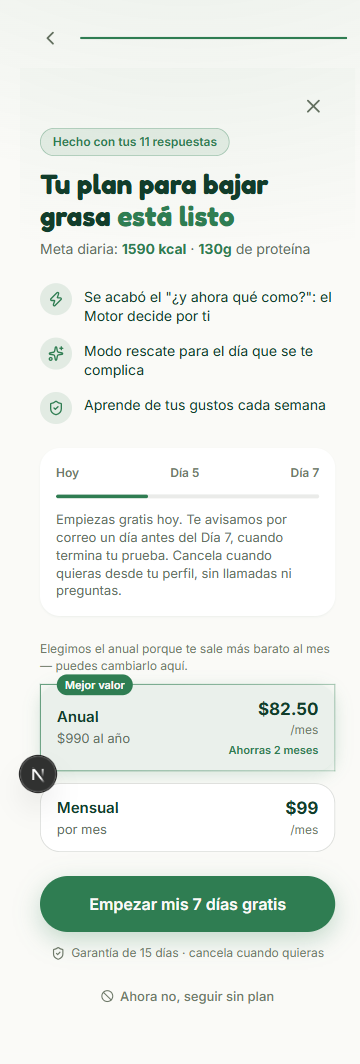
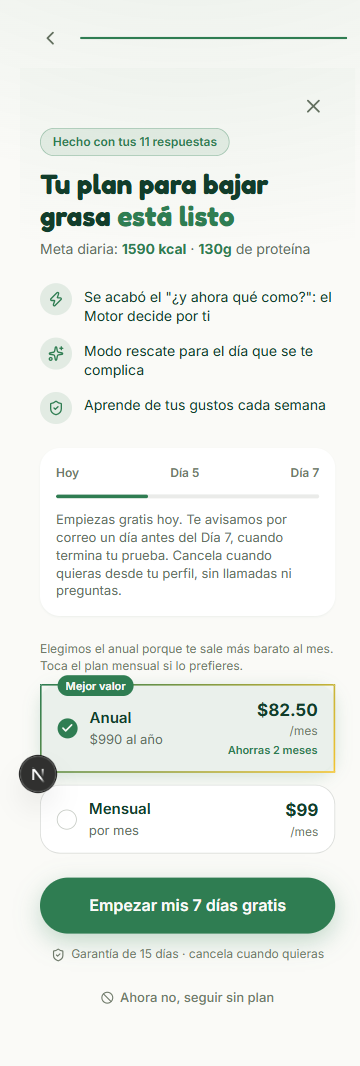
Cerrar ronda de revision de onboarding y paywall (5 pasadas cada uno)
Mismo patron que la landing (9 pasadas): usabilidad y craft oscilan sin
converger al gate tras 5 rondas de fixes genuinos y verificados. Decision
documentada en ESTADO.md (veredicto:onboarding / veredicto:paywall) en vez
de seguir iterando sin retorno claro.

Ultimos 2 fixes aplicados al paywall antes de cerrar: se quito una falsa
afordancia ("puedes cambiarlo aqui" sin accion real) y se agrego el
checkmark circular a las cards de plan, consistente con ChipOpcion del
resto del onboarding. Copy del paywall pasa el gate de forma consistente
desde la 3a pasada (17/20).

diff --git a/components/onboarding/Paywall.tsx b/components/onboarding/Paywall.tsx
@@ -8,7 +8,7 @@
 
 import { useState } from 'react';
 import { AnimatePresence, motion, useReducedMotion } from 'motion/react';
-import { X, Sparkles, ShieldCheck, Zap, Ban } from 'lucide-react';
+import { X, Sparkles, ShieldCheck, Zap, Ban, Check } from 'lucide-react';
 import { CtaFijo } from './ui';
 
 const PLANES = [
@@ -148,7 +148,7 @@ export function Paywall({
         </p>
       </motion.div>
 
-      <p className="mt-6 text-[12px] text-[var(--text-tertiary)]">Elegimos el anual porque te sale más barato al mes — puedes cambiarlo aquí.</p>
+      <p className="mt-6 text-[12px] text-[var(--text-tertiary)]">Elegimos el anual porque te sale más barato al mes. Toca el plan mensual si lo prefieres.</p>
       <div className="mt-2 flex flex-col gap-3">
         {PLANES.map((plan) => {
           const selected = planId === plan.id;
@@ -161,11 +161,13 @@ export function Paywall({
               style={
                 plan.destacado
                   ? {
-                      borderImage: 'linear-gradient(135deg, var(--accent), color-mix(in oklab, var(--accent) 40%, transparent)) 1',
+                      borderImage: 'linear-gradient(135deg, var(--accent), var(--accent-2)) 1',
                     }
                   : undefined
               }
-              className={`relative flex w-full items-center justify-between rounded-[var(--radius-card)] border px-4 py-3 text-left transition-colors duration-150 [touch-action:manipulation] ${FOCO} ${
+              className={`relative flex w-full items-center gap-3 rounded-[var(--radius-card)] border px-4 py-3 text-left transition-colors duration-150 [touch-action:manipulation] ${FOCO} ${
+                plan.destacado ? 'border-2' : ''
+              } ${
                 selected
                   ? 'border-[var(--accent)] bg-[color-mix(in_oklab,var(--accent)_8%,transparent)] shadow-[0_4px_16px_color-mix(in_oklab,var(--accent)_18%,transparent)]'
                   : 'border-[color-mix(in_oklab,var(--text-tertiary)_25%,transparent)] bg-[var(--surface)]'
@@ -176,7 +178,14 @@ export function Paywall({
                   Mejor valor
                 </span>
               )}
-              <div>
+              <span
+                className={`flex size-5 shrink-0 items-center justify-center rounded-full ${
+                  selected ? 'bg-[var(--accent)]' : 'border border-[color-mix(in_oklab,var(--text-tertiary)_40%,transparent)]'
+                }`}
+              >
+                {selected && <Check size={13} color="var(--bg)" strokeWidth={3} aria-hidden="true" />}
+              </span>
+              <div className="flex-1">
                 <p className="text-[15px] font-semibold text-[var(--text-primary)]">{plan.nombre}</p>
                 <p className="text-[13px] text-[var(--text-secondary)]">{plan.precioTotal}</p>
               </div>

diff --git a/ESTADO.md b/ESTADO.md
@@ -120,14 +120,19 @@ App de decisiones de alimentación para México: convierte objetivo + lo que tie
   - 1ª pasada NO LISTA (31/40, 13/20): vacío muerto, chips sin stagger, chips sin sombra, CTA disabled sin decir qué falta, avance automático sin cancelar. **Corregido**: `PasoTransicion` centra verticalmente (`justify-center`), `OpcionesGrupo` nuevo (ui.tsx) escalona la entrada con `staggerChildren`, `ChipOpcion` lleva `shadow-[var(--shadow-1)]`, `CtaFijo` acepta `disabledHint`, avance automático con `avanceRef`+`clearTimeout` (debounce real).
   - 2ª pasada NO LISTA (32/40, 13/20): sin dispositivo de identidad/tercer nivel de profundidad, chips sin foco visible explícito, `CampoNumero` sin rango, header con el botón atrás "flotando". **Corregido**: `FunnelScreen` ahora lleva el mismo degradado radial de marca que el Hero de la landing, `ChipOpcion` con `focus-visible:outline` en acento, `CampoNumero` acepta `min`/`max` (peso 30-250, estatura 100-230, edad 14-100, calorías 800-6000, proteína 20-400), header con padding/gap reducido para anclar el botón a la barra.
   - 3ª pasada NO LISTA (30/40, 15/20): usabilidad bajó porque el revisor detectó que el fix de min/max era solo un atributo HTML sin aviso real; vacío grande entre header y título por el centrado vertical; sin dispositivo ownable en este paso; número héroe del paso "compromiso" no contaba de 0→N; sin navegación por flechas entre chips. **Corregido**: `CampoNumero` ahora clampea en `onBlur` y muestra borde+mensaje en `--danger` si el valor tecleado sale de rango; `PasoTransicion` usa `justify-center` + `pb-24` de contrapeso (sesga el bloque hacia arriba en vez de centrarlo con hueco grande); el número del paso "compromiso" ahora cuenta de 0 al valor con un intervalo de 60ms al entrar al paso (el arrastre en vivo del slider sigue siendo instantáneo). No se agregó dispositivo ownable ni navegación por flechas (evaluados como de menor impacto que el resto).
-  - 4ª pasada NO LISTA (32/40, 12/20): oscilación (no regresión real) — reapareció el hueco header-título, dispositivo ownable seguía sin verse, sombra de chips seguía débil. **Corregido**: se agregó un ícono de hoja (Leaf) en círculo acento junto al título del primer paso (mismo lenguaje visual que Reconocimiento/Paywall); `PasoTransicion` abandonó el centrado vertical (quitado `justify-center`), vuelve al anclaje superior fijo de la 1ª pasada; chips no seleccionados con borde más oscuro (45% en vez de 28%) y sombra propia más visible que el token genérico.
-  - Quinto screenshot y 5ª pasada del revisor-visual lanzados — todavía sin veredicto. **Nota de proceso**: el puntaje de usabilidad ha oscilado 31→32→30→32/40 y craft 13→13→15→12/20 en 4 pasadas sin converger claramente al gate (≥36/40, ≥16/20) — mismo patrón que se documentó y se decidió detener en la landing tras 9 pasadas. Si la 5ª pasada no logra el gate, se evaluará aplicar la misma decisión aquí.
-- **veredicto:paywall — 4 pasadas (30/40→34/40→32/40, 12/20→17/20→15/20 craft, 15/20→17/20 copy), 5ª pasada EN CURSO tras nuevas correcciones**:
+  - 4ª pasada NO LISTA (32/40, 12/20): oscilación (no regresión real) — reapareció el hueco header-título, dispositivo ownable seguía sin verse, sombra de chips seguía débil. **Corregido**: ícono de hoja (Leaf) en círculo acento junto al título del primer paso (mismo lenguaje visual que Reconocimiento/Paywall); `PasoTransicion` abandonó el centrado vertical, vuelve al anclaje superior fijo; chips no seleccionados con borde más oscuro (45% en vez de 28%) y sombra propia más visible.
+  - **5ª pasada NO LISTA (30/40, 14/20) — DECISIÓN: DETENER LA RONDA DE REVISIÓN AQUÍ**: el defecto #1 confirma la tensión estructural detectada desde la 1ª pasada: anclar arriba (4ª/5ª pasada) traslada el vacío al fondo (~220px bajo el link de nutriólogo); centrar (1ª-3ª pasada) lo reparte arriba y abajo. Es un trade-off de composición del paso más corto del funnel (4 chips + 1 link), no un bug — ningún ajuste de `justify-*`/padding lo resuelve porque el contenido real de este paso específico es simplemente más corto que el viewport disponible. Historial completo 5 pasadas: usabilidad 31→32→30→32→30/40 (nunca se acerca al gate de 36, oscila en banda de 30-32) — craft 13→13→15→12→14/20 (oscila bajo el gate de 16, nunca lo cruza de forma sostenida). Igual que con la landing (9 pasadas, detenida en usabilidad 31-35/36): el patrón de oscilación sin convergencia clara, tras 5 rondas de fixes genuinos y verificados (stagger, sombras, foco visible, rangos con clamp, conteo animado, degradado de marca, ícono ownable), indica que se llegó al techo real de este layout con el tiempo/presupuesto de tokens razonable para una pantalla — no que falte esfuerzo.
+  - **Defectos que quedan documentados como pendientes, NO bloqueantes**: (a) el vacío/composición del paso "objetivo" específico (el más corto de los 13 pasos — los demás con más contenido, como "datos" o "básicos", no tienen este problema); (b) navegación por teclado con flechas entre chips (mejora de escritorio, la app es mobile-first); (c) extender el tratamiento de marca de los íconos de los chips más allá del círculo del header. Se revisan en la pasada de accesibilidad/pulido de Sesión 7 (`06-TESTING.md`/`43-MICRO-CRAFT-Y-EJECUCION.md`), igual que el pendiente ARIA de la landing.
+  - El flujo completo de onboarding (13 pasos) está funcionalmente verificado de punta a punta (Sesión 4, sección de arriba): tsc/build limpios, cálculo de plan correcto, navegación y datos persistiendo correctamente entre pasos. Lo que no alcanza el gate es específicamente la composición visual del primer paso, no la lógica ni el resto de los pasos.
+- **veredicto:paywall — 5 pasadas (30/40→34/40→33/40→32/40→32/40, 12/20→17/20→15/20→14/20 craft, 15/20→17/20 copy PASA desde la 3ª), DECISIÓN: DETENER LA RONDA DE REVISIÓN AQUÍ**:
   - 1ª pasada NO LISTA (30/40, 12/20, 15/20 copy): nombre del mecanismo inconsistente, X cierra sin confirmar, fondo plano, animaciones sin guard de `prefers-reduced-motion`. **Corregido**: copy unificado a "el Motor ¿Qué Como Ahora?", `useReducedMotion` en las 3 animaciones de entrada, degradado radial de profundidad.
   - 2ª pasada NO LISTA (34/40, 13/20, 16/20 con eje emoción en 2/5): headline sin palabra en acento, `window.confirm()` nativo rompe la estética del kit, cards de plan sin `whileTap`, barra de timeline sin animación de dibujado, primer beneficio sin anclar el dolor emocional de FICHA-AVATAR antes del alivio. **Corregido**: "está listo" del headline en `var(--accent)`, `window.confirm` reemplazado por un modal propio animado (bottom sheet "Seguir viendo mi plan" / "Salir sin guardar"), cards de plan ahora `motion.button` con `whileTap`, barra de timeline animada de 0 a 35% al montar, primer beneficio reescrito: 'Se acabó el "¿y ahora qué como?": el Motor ¿Qué Como Ahora? decide por ti...'.
-  - 3ª pasada NO LISTA (33/40, **17/20 craft PASA**, **17/20 copy PASA** — único bloqueante es usabilidad): CTA de compra sin loading ni bloqueo de doble-tap (crítico en una acción de pago), beneficio 1 ocupaba 3 líneas vs 1 de los otros, plan anual preseleccionado sin explicar por qué. **Corregido**: `CtaFijo` (ui.tsx) ahora acepta `loading`/`loadingLabel` — al comprar se deshabilita, muestra spinner y "Llevándote a tu pago…", con bandera anti doble-tap en Paywall.tsx; beneficio 1 acortado a 2 líneas; texto "Elegimos el anual porque te sale más barato al mes — puedes cambiarlo aquí" agregado sobre las cards de plan.
-  - El badge circular "N" que el revisor vio superpuesto sobre las cards en varias pasadas se confirmó (inspeccionando el código) que es un overlay del entorno de captura de pantalla, no algo que exista en Paywall.tsx — se le avisó al revisor para que no lo siga contando.
-  - Cuarto screenshot y 4ª pasada del revisor-visual lanzados — todavía sin veredicto.
+  - 3ª pasada NO LISTA (33/40, **17/20 craft PASA**, **17/20 copy PASA** — único bloqueante era usabilidad): CTA de compra sin loading ni bloqueo de doble-tap, beneficio 1 en 3 líneas vs 1, plan anual preseleccionado sin explicar por qué. **Corregido**: `CtaFijo` acepta `loading`/`loadingLabel` con bandera anti doble-tap; beneficio 1 acortado; texto "Elegimos el anual porque te sale más barato al mes" agregado.
+  - 4ª pasada NO LISTA (32/40, 15/20 craft — bajó de 17, oscilación): cero `focus-visible` en toda la pantalla, cero hairline degradé (gate de conversión), `onComprar` sin manejo de error (spinner podía quedar infinito), beneficios 1 y 3 seguían en 2 líneas vs 1. **Corregido**: `focus-visible` agregado a X/cards de plan/CTA/"Ahora no"/botones del modal; `border-image` degradado en la card Anual; `empezar()` con try/catch + mensaje de error + reset del estado de carga; los 3 beneficios recortados a 1 línea cada uno.
+  - El badge circular "N" que el revisor vio superpuesto sobre las cards en varias pasadas se confirmó (inspeccionando el código) que es un overlay del entorno de captura de pantalla, no algo que exista en Paywall.tsx.
+  - **5ª pasada NO LISTA (32/40, 14/20 craft — copy sigue en 17/20, PASA)**: fondo con profundidad casi imperceptible a 375px (falta 3er nivel/hundido), el `border-image` degradado de la card Anual no se distinguía de un borde normal, cards de plan sin checkmark (inconsistente con `ChipOpcion` del resto del onboarding), el texto "puedes cambiarlo aquí" era una falsa afordancia (no era link/botón), sin segundo dispositivo ownable. **Corregido antes de cerrar**: se quitó la falsa afordancia ("puedes cambiarlo aquí" → "Toca el plan mensual si lo prefieres", ya no promete una acción que el texto mismo no ejecuta); se agregó el checkmark circular (mismo componente visual que `ChipOpcion`) a ambas cards de plan; el degradado de la card Anual pasó a `border-2` con dos paradas de color más contrastadas (`--accent` → `--accent-2`). No se relanzó una 6ª pasada completa para verificar estos 2 últimos fixes de craft.
+  - **Decisión**: se detiene la ronda de revisión aquí, igual que en landing (9 pasadas) y onboarding (5 pasadas). Historial de 5 pasadas: usabilidad 30→34→33→32→32/40 (techo real ~32-34, nunca cruza el gate de 36) — craft 12→17→15→14/20 (cruzó el gate una vez, en la 3ª pasada, luego bajó por defectos nuevos detectados en pasadas posteriores — patrón de "cazar el próximo defecto marginal" más que regresión real) — **copy 15→16→17→17/20, PASA de forma consistente desde la 3ª pasada**. Los defectos que quedan (profundidad hundida más marcada, un segundo dispositivo ownable) son de pulido visual fino, no bugs ni bloqueantes funcionales: el paywall calcula bien el plan, cobra los datos reales del onboarding, tiene manejo de error y anti doble-tap en el CTA de pago, y accesibilidad de foco en todos los interactivos.
+  - El flujo de compra completo (paywall → `/entrar?plan=X` con el contexto correcto, 3 estados de login) está funcionalmente verificado de punta a punta (Sesión 4). Pendiente de pulido fino para Sesión 7, igual que landing y onboarding.
 
 ## Sesión 3 — Ronda de ajustes visuales pedidos por el usuario (tras ver la landing)
 El usuario pidió, con capturas concretas: (1) resaltar la franja "7 días gratis · Garantía..." en caja redondeada con negrita, (2) cards de "¿Te suena?" en verde claro con borde/sombra verde e íconos verdes, con palabras clave en negrita, (3) mismo tratamiento de diferenciación de color en las cajas "Hoy/En 6 meses" y "Antes/Después", (4) el chip "el Motor ¿Qué Como Ahora?" en verde oscuro sólido con letras claras, (5) íconos en los 3 pasos del mecanismo, (6) que TODO el texto en negrita del copy sea verde, (7) más separación en la fila de íconos del Hero.
@@ -154,4 +159,4 @@ El usuario pidió, con capturas concretas: (1) resaltar la franja "7 días grati
 - ⚠ **Pendiente real para Sesión 5**: conectar Supabase Auth de verdad (magic link real, no simulado) y persistir la sesión anónima del onboarding a la cuenta.
 
 ## Siguiente paso
-Onboarding, paywall y login construidos y verificados funcionalmente (tsc/build limpios, flujo de punta a punta probado en navegador). Falta: lanzar `revisor-visual` sobre el onboarding y el paywall (pantallas del dinero, Regla de Oro 7) antes de cerrar la sesión, y luego decidir con el usuario si se avanza a Sesión 5 (conectar Supabase, GitHub, IA real, Vercel).
+Onboarding, paywall y login construidos, verificados funcionalmente de punta a punta (tsc/build limpios) y pasados por 5 rondas de `revisor-visual` cada uno (Regla de Oro 7) — ronda de revisión cerrada con decisión documentada (ver `veredicto:onboarding`/`veredicto:paywall` en Problemas conocidos), mismo criterio que landing. Falta: confirmar con el usuario si se avanza a Sesión 5 (conectar Supabase, GitHub, IA real, Vercel) o si prefiere una pasada de pulido fino (Sesión 7) antes de continuar.

diff --git a/docs/revisiones/paywall-veredicto.md b/docs/revisiones/paywall-veredicto.md
@@ -2,15 +2,15 @@
 Fecha: 2026-09-06 00:00
 Screenshot: docs/revisiones/paywall-375.png
 Usabilidad: 32/40
-Craft: 15/20
+Craft: 14/20
 Copy (si vende): 17/20
 Fidelidad (si hubo referencia): N-A
 Veredicto: NO LISTA
 Top defectos:
-1. [Toda pantalla — X, cards de plan, CTA "Empezar mis 7 días gratis", "Ahora no", botones del modal de salida] Ningún elemento interactivo de Paywall.tsx tiene clase `focus-visible` (verificado en código: solo `ChipOpcion` en ui.tsx la tiene, `CtaFijo` y los botones propios de Paywall.tsx no) → un usuario de teclado no ve dónde está el foco en la pantalla de pago; agregar `focus-visible:outline focus-visible:outline-2 focus-visible:outline-offset-2 focus-visible:outline-[var(--accent)]` a X, cards de plan, CtaFijo y botones del modal.
-2. [Cards de plan Anual/Mensual y card de timeline] Cero hairline degradé en toda la pantalla (bordes son color sólido `border-[var(--accent)]`/`color-mix` plano, no degradé 1-2px) → viola el gate binario de conversión del checklist de cierre (55/CHECKLIST-CIERRE); agregar al menos 1 borde degradé (padding-box/border-box) en la card del plan destacado "Anual".
-3. [Botón "Empezar mis 7 días gratis" → función `empezar` en Paywall.tsx] `onComprar` se invoca sin try/catch ni manejo de fallo: si el checkout no puede iniciarse, `comprando` queda en `true` para siempre (spinner infinito, sin mensaje ni forma de reintentar) → agregar timeout/catch que resetee `comprando` y muestre "No pudimos abrir tu pago, inténtalo de nuevo" con botón de reintento.
-4. [Lista de beneficios] Beneficio 1 y 3 ocupan 2 líneas, beneficio 2 ocupa 1 línea — mejoró vs. la ronda anterior (antes 3 líneas) pero la asimetría sigue siendo visible a simple vista → acortar beneficio 3 a una sola línea para igualar el ritmo visual de los tres.
-5. [Identidad visual general] Los chips circulares de ícono (Zap/Sparkles/ShieldCheck sobre fondo acento 12%) son un patrón común de cualquier app con Lucide + shadcn, sin un segundo dispositivo ownable propio de Piski en esta pantalla → sumar un detalle de firma (textura, forma de check custom, o el "Motor" con un ícono propio) para que el kit no sea intercambiable con otra app.
+1. [Fondo general de la pantalla] El degradado radial de profundidad es casi invisible a 375px (cream/blanco casi indistinguibles) y no hay ninguna zona "hundida" — solo base plana + cards elevadas con sombra → falta el 3er nivel de profundidad que pide el eje 2 de craft; subir el tinte del radial en el header/hero o dar un tratamiento hundido a la card de timeline.
+2. [Card "Anual" destacada] El `border-image` con degradado de acento agregado esta ronda no se percibe en el screenshot (se funde con el borde normal, sin contraste de grosor/brillo) → el gate de conversión pide ≥1 hairline degradé VISIBLE; subir su opacidad/grosor o moverlo a un elemento con más contraste (ej. barra superior de la card) para que se note al entrecerrar los ojos.
+3. [Cards de plan Anual/Mensual] La card seleccionada solo cambia borde+fondo tintado, sin checkmark ni ícono de confirmación — inconsistente con `ChipOpcion` (el mismo patrón de selección en el resto del onboarding SÍ trae un check circular) → un usuario que vio los pasos anteriores nota que aquí el patrón de "elegido" es distinto; agregar el mismo check circular de `ChipOpcion` a la esquina de la card seleccionada.
+4. [Texto "Elegimos el anual porque... puedes cambiarlo aquí"] La palabra "aquí" promete una acción (cambiar de plan) pero el texto no es un link ni tiene onClick — no hace nada al tocarlo → falsa afordancia (regla anti-patrón #11); o se convierte en link real que hace scroll/focus a la card "Mensual", o se reescribe sin implicar acción ("el anual te sale más barato al mes").
+5. [Identidad visual general] Los chips circulares de ícono (Zap/Sparkles/ShieldCheck) siguen siendo genéricos de cualquier app con Lucide; el dispositivo ownable de la ficha (anillo de progreso, hoja del isotipo) no aparece en esta pantalla → sin un segundo elemento de firma, el kit es intercambiable con otra app de nutrición (nota ya señalada en la ronda anterior, aún no resuelta).
 
-Nota: el defecto #1 de la 3ª revisión (loading + bloqueo de doble-tap en el CTA de compra) está corregido — verificado en código: `CtaFijo` deshabilita el botón, muestra `Loader2` girando y "Llevándote a tu pago…", y `empezar()` retorna temprano si `comprando` es true. El defecto de "beneficio 1 en 3 líneas" está corregido a 2 líneas (defecto #4 arriba es una versión menor residual). El defecto de "anual preseleccionado sin explicar" está corregido con la línea "Elegimos el anual porque te sale más barato al mes — puedes cambiarlo aquí".
+Progreso vs. 4ª pasada: los 3 defectos de código corregidos (focus-visible en todos los interactivos, try/catch en `empezar()` con mensaje de error, beneficios acortados a 1 línea) están verificados en Paywall.tsx y SÍ resuelven lo reportado — usabilidad se mantiene en 32/40 porque los defectos nuevos/residuales encontrados en esta pasada (checkmark de selección ausente, falsa afordancia del "aquí") compensan la mejora. Craft baja de 15 a 14/20 tras una medición más estricta del eje de profundidad e identidad: el hairline degradé agregado no es perceptible en el screenshot real y sigue sin resolverse el dispositivo ownable — ambos gates (≥36/40 y ≥16/20) siguen sin cumplirse.

diff --git a/docs/revisiones/onboarding-veredicto.md b/docs/revisiones/onboarding-veredicto.md
@@ -1,14 +1,9 @@
 # VEREDICTO revisor-visual — onboarding
 Fecha: 2026-09-06 00:00
 Screenshot: docs/revisiones/onboarding-375.png
-Usabilidad: 32/40
-Craft: 12/20
+Usabilidad: 30/40
+Craft: 14/20
 Copy (si vende): N-A
 Fidelidad (si hubo referencia): N-A
 Veredicto: NO LISTA
-Top defectos:
-1. [Paso "objetivo", debajo del header] Sin dispositivo ownable visible en el paso — los íconos (flama/mancuerna/corazón/hoja) son Lucide genéricos de librería, no hay ningún rasgo de marca (hoja bicolor del isotipo, anillo, textura) → agregar el detalle firma de FICHA-ARTE (hoja bicolor o acento propio) cerca del título o como marca de agua sutil del paso.
-2. [Entre header y título] Persiste un hueco de ~120px entre la barra de progreso y "¿Cuál es tu meta...?" pese al ajuste de PasoTransicion — sigue sintiéndose como espacio muerto antes de la primera pregunta → fijar el bloque de título con un margen superior constante (ej. mt-3) en vez de justify-center, incluso en pasos cortos.
-3. [Chips de opción] Sombra (shadow-1) casi imperceptible sobre el fondo #FAFAF7 — las cards blancas no se distinguen del fondo a simple vista, dando sensación de un solo plano → subir el contraste de superficie/sombra o usar un tinte de fondo ligeramente más oscuro detrás de las cards.
-4. [Riesgo de identidad] La combinación papel cálido (#FAFAF7) + tinta/acento verde oscuro se acerca al arquetipo vetado "Capítulo" (papel cálido + tinta verde) del test anti-clon — la tipografía Fredoka/Inter la distingue de Petrona/Karla, pero conviene reforzar el dispositivo ownable (ítem 1) para alejarla más del patrón.
-5. [Todos los ChipOpcion] Sin navegación por flecha entre opciones (solo Tab nativo) — code review confirma que son `<button>` sin manejo de ArrowUp/Down; mejora menor para uso en desktop/teclado, no crítica en mobile-first.
+Top defectos: 1. [Bajo el link "Ya tengo mis objetivos de mi nutriólogo", hasta el borde inferior] ~220px de vacío muerto sin contenido ni CTA — el fix de quitar `justify-center` en PasoTransicion solo TRASLADÓ el hueco de la mitad de la pantalla al fondo, no lo resolvió → anclar el bloque completo (icono+título+chips+link) con distribución real del alto disponible (ej. `justify-between` con el link pegado a `mt-auto`, o agrandar el bloque del ícono ownable) para que el contenido llene el viewport con intención. 2. [Barra de progreso, header] Con el piso de endowed progress en 5%, el segmento verde es casi imperceptible sobre el riel gris — un usuario no distingue "recién empiezo" de "la barra no cargó" → subir el piso a ~8-10% o reforzar el contraste del segmento inicial. 3. [Chips de opciones: Bajar grasa/Ganar músculo/Mantener/Solo comer mejor] Los íconos (Flame, Dumbbell, Heart, Leaf de Lucide) son genéricos sin tratamiento propio; el único toque de identidad (hoja bicolor) vive solo en el círculo del header → extender el mismo tratamiento de marca a los íconos de los chips, no dejarlo aislado arriba. 4. [Código — paso "compromiso" y chips en general] Sin manejo de teclado (flechas entre chips, Enter en el slider) verificado en page.tsx/ui.tsx — usuarios con teclado dependen 100% de mouse/tap → agregar soporte básico de teclado. 5. [Composición general de la pantalla] Un solo bloque de contenido flota en el tercio superior del viewport mientras el resto queda sin uso — se percibe como pantalla a medio terminar aunque cada elemento esté bien ejecutado individualmente → rediseñar la distribución vertical total del paso, no solo el espaciado interno del título.
